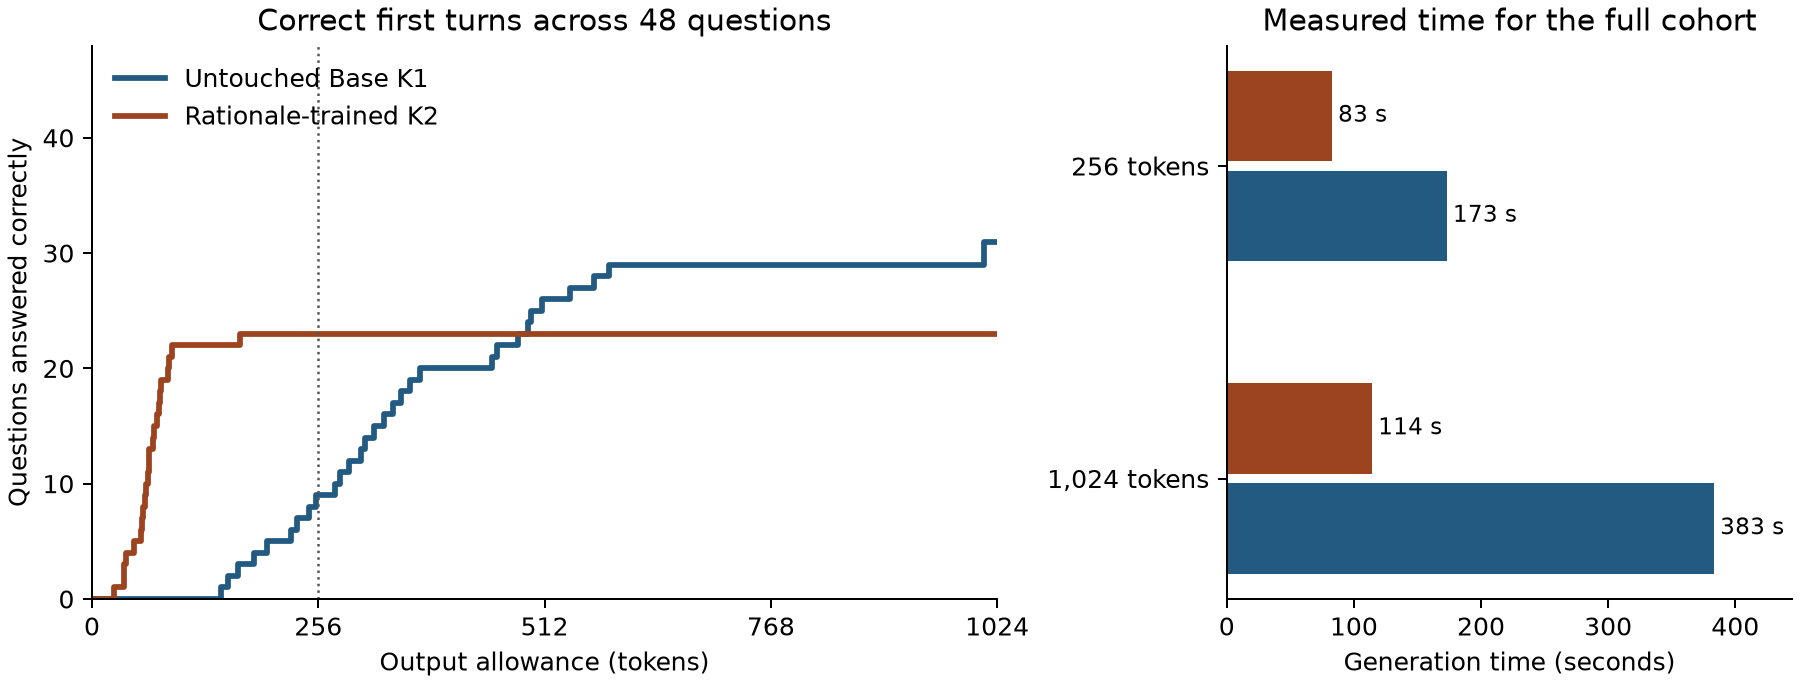
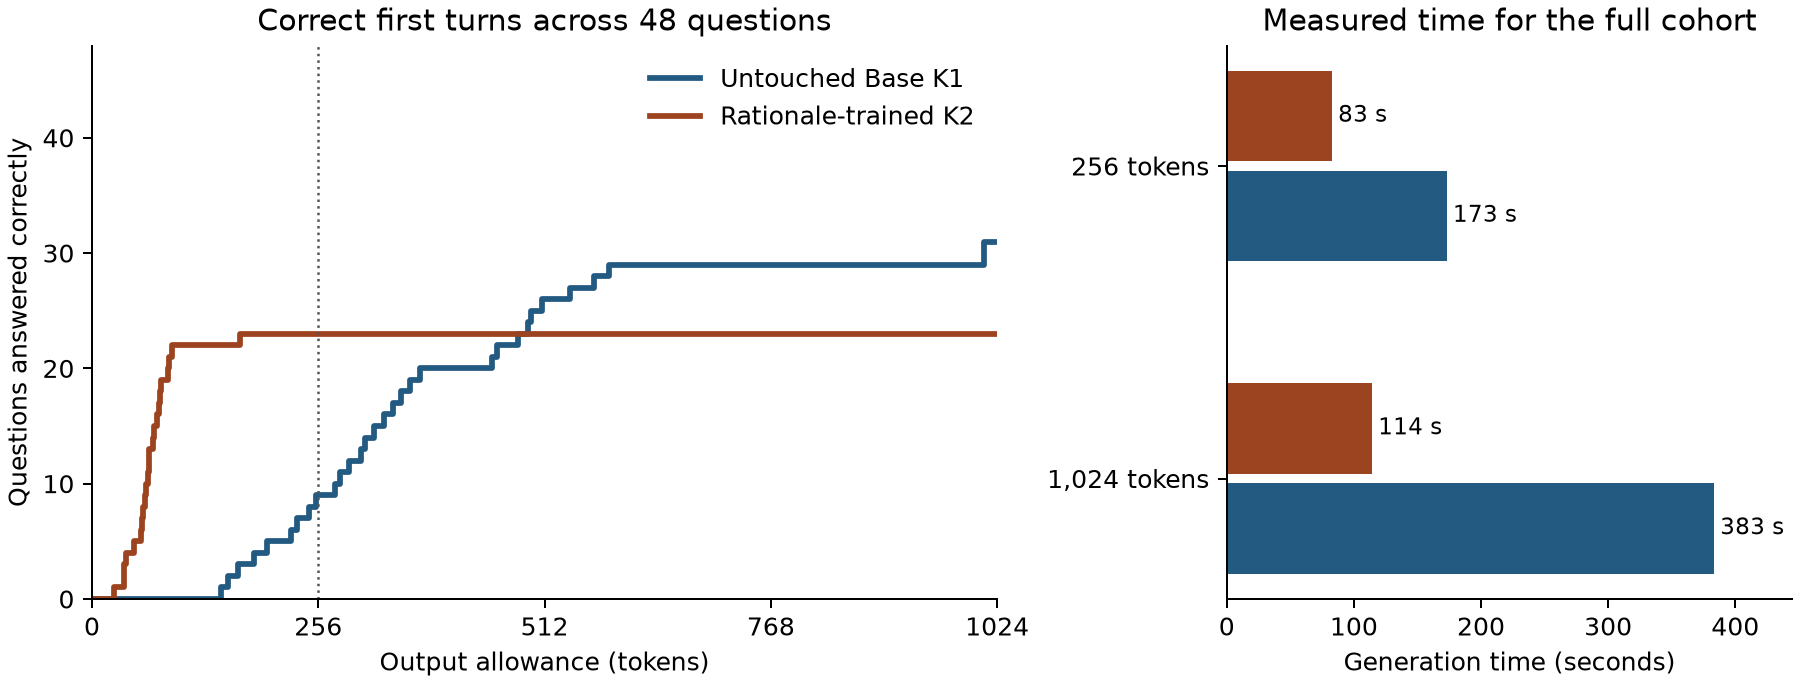
Keep the budget marker clear of the model legend

diff --git a/scripts/rationale_budget_figure.py b/scripts/rationale_budget_figure.py
@@ -46,7 +46,7 @@ quality.set(
     ylim=(0, 48),
     xticks=(0, 256, 512, 768, 1024),
 )
-quality.legend(loc="upper left", frameon=False)
+quality.legend(loc="upper right", frameon=False)
 timing.set(
     title="Measured time for the full cohort",
     xlabel="Generation time (seconds)",
